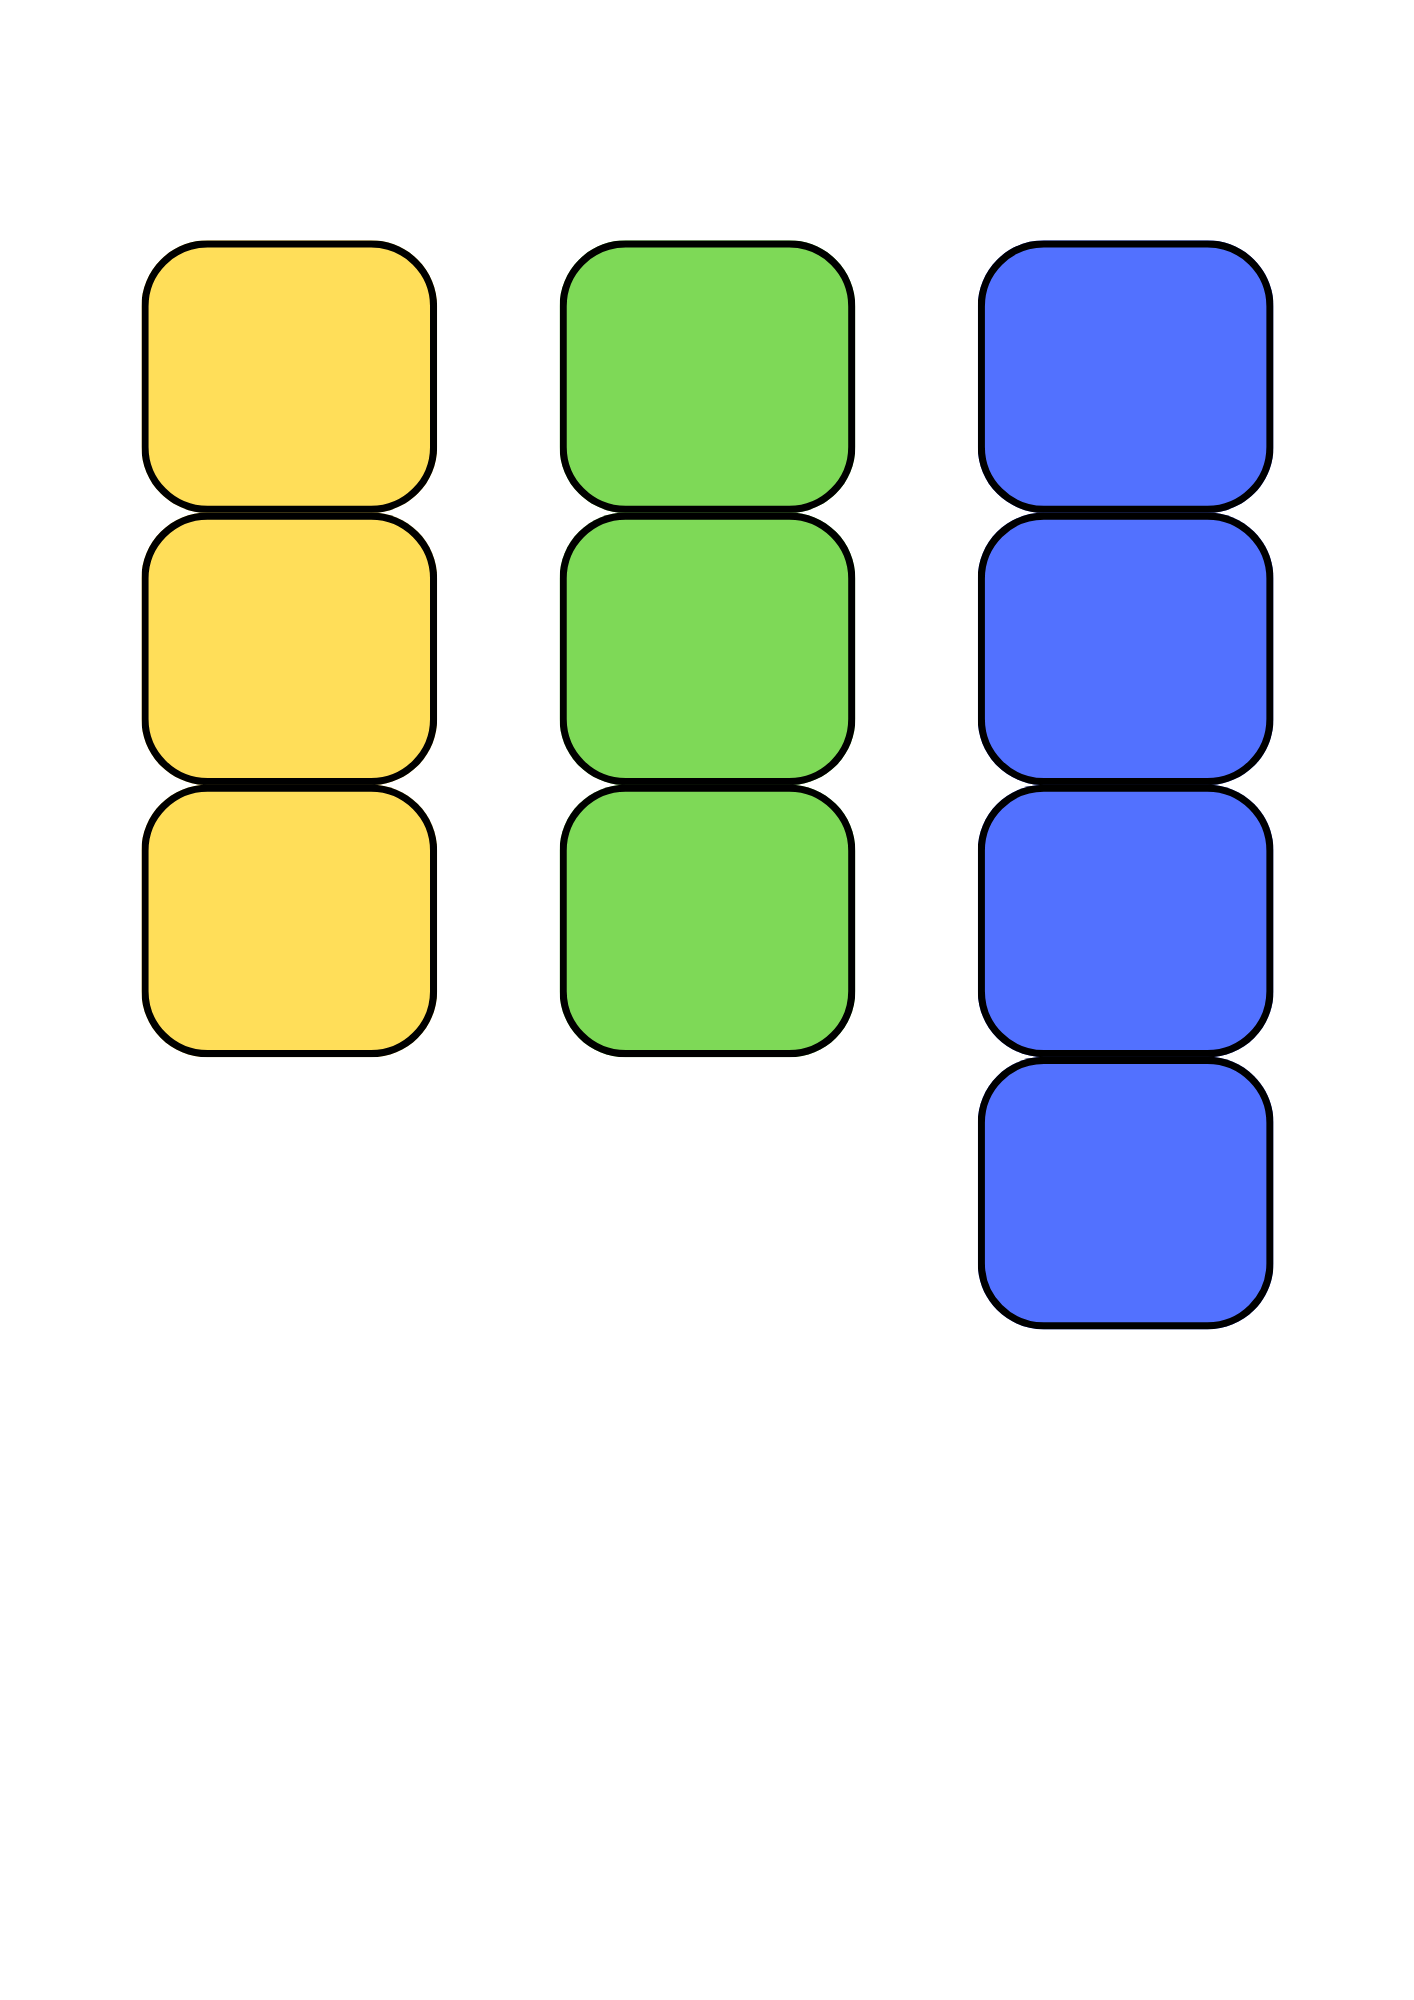
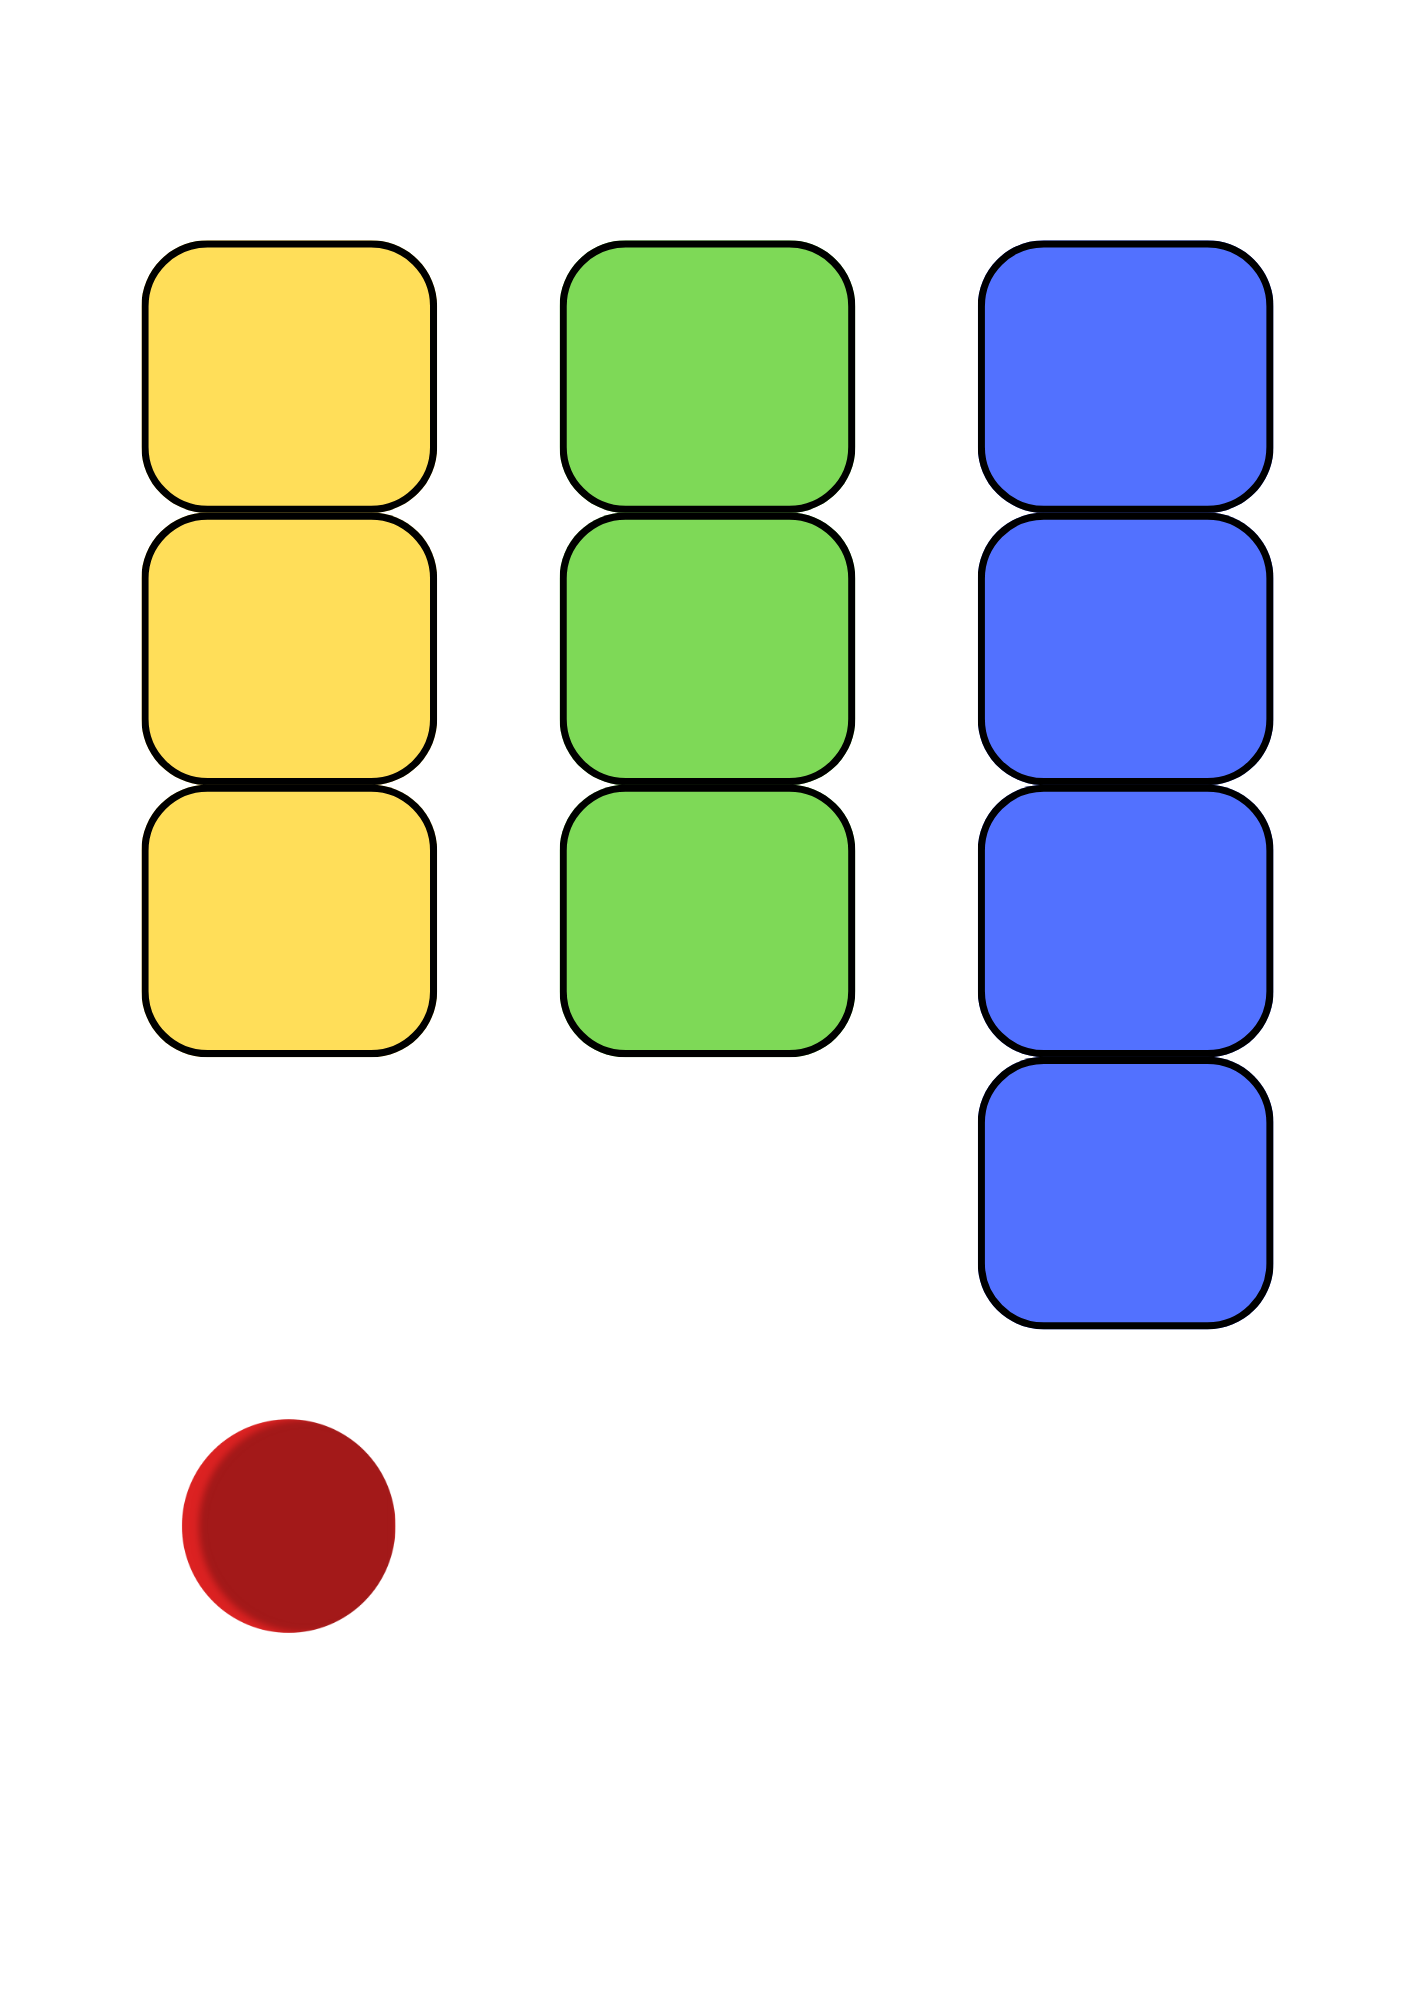
paddle ball bounce added

Changed region(s): [[0.1245, 0.682, 0.2801, 0.837]]

diff --git a/headers/object.hpp b/headers/object.hpp
@@ -13,7 +13,14 @@ public:
         srcRect = s;
         moverRect = m;
     };
-    virtual void setToServe(int){};
+
+    virtual int isScored() { return 0; };
+    virtual void collideFromWall(){};
+    virtual int collideFromPaddle(Object *p1, Object *p2) { return 0; };
+    SDL_Rect getMover() { return moverRect; };
+    // virtual void setToServe(int){};
+
+    virtual void setToServe(int side) { moverRect.y = (720 - moverRect.h) / 2; }
     virtual void movePaddle(int){};
     virtual void moveBall(){};
     virtual void draw() = 0;
@@ -34,9 +41,9 @@ public:
         {
             moverRect.y = 10;
         }
-        if (moverRect.y >= 670 - moverRect.h)
+        if (moverRect.y >= 700 - moverRect.h)
         {
-            moverRect.y = 670 - moverRect.h;
+            moverRect.y = 700 - moverRect.h;
         }
     }
 };
@@ -117,31 +124,179 @@ public:
 class Ball : public Object
 {
 public:
+    bool onServe = true;
     int dir = 1;
-    Ball() : Object({559, 240, 297, 818 / 3}, {490, 10, 30, 30}){};
+    int vel_X = 7;
+    int vel_Y = -7;
+    Ball() : Object({181, 1419, 215, 215}, {490, 10, 20, 20}){};
 
     void draw()
     {
         SDL_RenderCopy(Drawing::gRenderer, Drawing::assets, &srcRect, &moverRect);
     };
+
+    void collideFromWall()
+    {
+        vel_Y *= -1;
+    }
+
+    int collideFromPaddle(Object *p1, Object *p2)
+    {
+        // cout << "check collison" << endl;
+
+        // if (moverRect.x <= 10 || moverRect.x + moverRect.w>= 980)
+        // {
+        //     vel_X *= -1;
+        // }
+        SDL_Rect padCord = p1->getMover();
+        if (moverRect.x <= 40)
+        {
+            // if ((moverRect.y >= padCord.y && moverRect.y <= padCord.y + padCord.h) || (moverRect.y + moverRect.h >= padCord.y && moverRect.y + moverRect.h <= padCord.y + padCord.h))
+            // {
+            //     vel_X *= -1;
+
+            //     return 1;
+            // }
+            if (moverRect.y >= padCord.y && moverRect.y <= padCord.y + padCord.h)
+            {
+                vel_X *= -1;
+                if (moverRect.y <= padCord.y + padCord.h / 3)
+                {
+                    vel_Y = -7;
+                }
+                else if (moverRect.y <= padCord.y + padCord.h / 1.5)
+                {
+
+                    vel_Y *= rand() % 3 - 1;
+                }
+                else
+                {
+                    vel_Y = 7;
+                }
+                return 1;
+            }
+            else if (moverRect.y + moverRect.h >= padCord.y && moverRect.y + moverRect.h <= padCord.y + padCord.h)
+            {
+
+                vel_X *= -1;
+                if (moverRect.y <= padCord.y + padCord.h / 3)
+                {
+                    vel_Y = -7;
+                }
+                else if (moverRect.y <= padCord.y + padCord.h / 1.5)
+                {
+
+                    vel_Y *= rand() % 3 - 1;
+                }
+                else
+                {
+                    vel_Y = 7;
+                }
+                return 1;
+            }
+
+            // if (vel_Y == 0)
+            // {
+            //     vel_Y = 5;
+            // }
+            return -1;
+        }
+
+        else if (moverRect.x + moverRect.w >= 980)
+        {
+            padCord = p2->getMover();
+            if (moverRect.y >= padCord.y && moverRect.y <= padCord.y + padCord.h)
+            {
+                vel_X *= -1;
+                if (moverRect.y <= padCord.y + padCord.h / 3)
+                {
+                    vel_Y = -7;
+                }
+                else if (moverRect.y <= padCord.y + padCord.h / 1.5)
+                {
+
+                    vel_Y *= rand() % 3 - 1;
+                }
+                else
+                {
+                    vel_Y = 7;
+                }
+                return 2;
+            }
+            else if (moverRect.y + moverRect.h >= padCord.y && moverRect.y + moverRect.h <= padCord.y + padCord.h)
+            {
+
+                vel_X *= -1;
+                if (moverRect.y <= padCord.y + padCord.h / 3)
+                {
+                    vel_Y = -7;
+                }
+                else if (moverRect.y <= padCord.y + padCord.h / 1.5)
+                {
+
+                    vel_Y *= rand() % 3 - 1;
+                }
+                else
+                {
+                    vel_Y = 7;
+                }
+                return 2;
+            }
+
+            // if (vel_Y == 0)
+            // {
+            //     vel_Y = 5;
+            // }
+            return -1;
+        }
+
+        // setToServe();
+        return 0;
+    }
+
+    int isScored()
+    {
+        if (moverRect.x <= 10)
+        {
+
+            return 2;
+        }
+        else if (moverRect.x >= 980)
+        {
+
+            return 1;
+        }
+        return 0;
+    }
+
     void moveBall()
     {
-        moverRect.y += 8 * dir;
-        if (moverRect.y <= 10)
+        // if (moverRect.x >= 10 && moverRect.x <= 980)
+        // {
+        moverRect.x += vel_X;
+        moverRect.y += vel_Y;
+        // }
+
+        if (moverRect.y <= 10 || moverRect.y >= 700 - moverRect.h)
         {
-            moverRect.y = 10;
-            dir *= -1;
-        }
-        if (moverRect.y >= 670)
-        {
-            dir *= -1;
-            moverRect.y = 670;
+
+            collideFromWall();
         }
     }
 
-    void setToServe(int side)
+    void setToServe(int side = 0)
     {
         moverRect.y = (720 - moverRect.h) / 2;
-        moverRect.x = 40;
+        if (side == 0)
+        {
+            moverRect.x = 40;
+            vel_X = abs(vel_X);
+        }
+        else
+        {
+            moverRect.x = 980;
+            vel_X = -1 * abs(vel_X);
+        }
+        onServe = true;
     }
 };

diff --git a/headers/retro.hpp b/headers/retro.hpp
@@ -9,7 +9,8 @@ class Retro
     Player *player_two;
     Object *ball;
     bool isRunning;
-    bool isServing;
+    bool isServing = true;
+    ;
 
 public:
     Retro()
@@ -32,10 +33,10 @@ public:
             player_two = new HumanPlayer(2, pad2);
         }
 
-        cout << "game: " << mode << endl;
-        cout << "level: " << level << endl;
-        cout << "pad1: " << pad1 << endl;
-        cout << "pad2: " << pad2 << endl;
+        // cout << "game: " << mode << endl;
+        // cout << "level: " << level << endl;
+        // cout << "pad1: " << pad1 << endl;
+        // cout << "pad2: " << pad2 << endl;
 
         // else
         // {
@@ -50,12 +51,35 @@ public:
         ball->draw();
         if (isServing)
         {
-            ball->setToServe(1);
+            ball->setToServe(0);
+            player_one->paddle->setToServe(0);
+            player_two->paddle->setToServe(0);
         }
         else
         {
-
+            // cout << "moving" << endl;
             ball->moveBall();
+            int a = ball->collideFromPaddle(player_one->paddle, player_two->paddle);
+            int b = ball->isScored();
+
+            if (b > 0)
+            {
+
+                if (b == 1)
+                {
+                    // player_one->updateScore();
+                    ++(*player_one);
+                }
+                else if (b == 2)
+                {
+                    player_two->updateScore();
+                }
+
+                cout << "p1 " << player_one->score << " p2 " << player_two->score << endl;
+                isServing = true;
+
+                SDL_Delay(2000);
+            }
         }
     };
 
@@ -67,7 +91,7 @@ public:
 
     void moveTwo(int dir)
     {
-        isServing = true;
+        // isServing = true;
         player_two->movepaddle(dir);
     };
 

diff --git a/headers/player.hpp b/headers/player.hpp
@@ -10,6 +10,11 @@ public:
     Player(){};
     virtual void movepaddle(int dir) = 0;
     void updateScore() { score++; };
+
+    void operator ++()
+    {
+        score++;
+    }
 };
 
 class HumanPlayer : public Player
@@ -18,34 +23,9 @@ class HumanPlayer : public Player
 public:
     HumanPlayer(int side, int pad_type) : Player()
     {
-        // SDL_Rect s;
-        // SDL_Rect m;
-        // if (side == 1)
-        // {
-        //     s = {141, 240, 297, 818};
-        //     m = {10, 10, 40, 120};
-        // }
-        // else
-        // {
-        //     s = {559, 240, 297, 818};
-        //     m = {970, 10, 40, 120};
-        // }
-
-        // if (pad_type == 1)
-        // {
-        //     paddle = new Paddle(s, m);
-        // }
-        // else if (pad_type == 2)
-        // {
-        //     paddle = new Paddle(s, m);
-        // }
-        // else
-        // {
-        //     paddle = new Paddle(s, m);
-        // }
 
         if (pad_type == 1)
-        
+
         {
             paddle = new SpeedPaddle(side);
         }
@@ -64,6 +44,7 @@ public:
         // cout<<"move 2"<<endl;
         paddle->movePaddle(dir);
     };
+
 };
 
 // class PC : public Player
